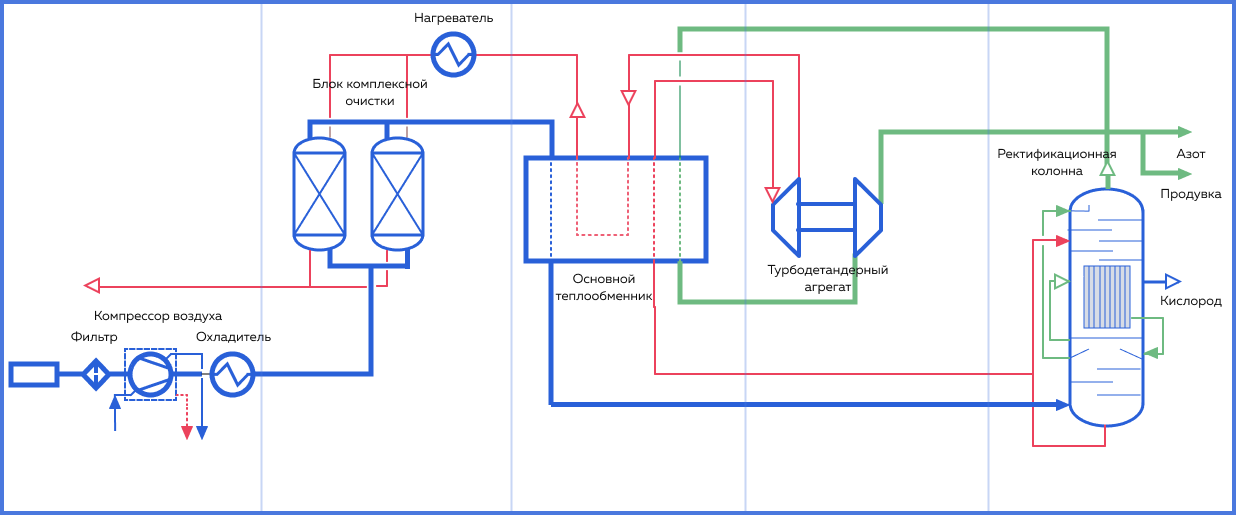
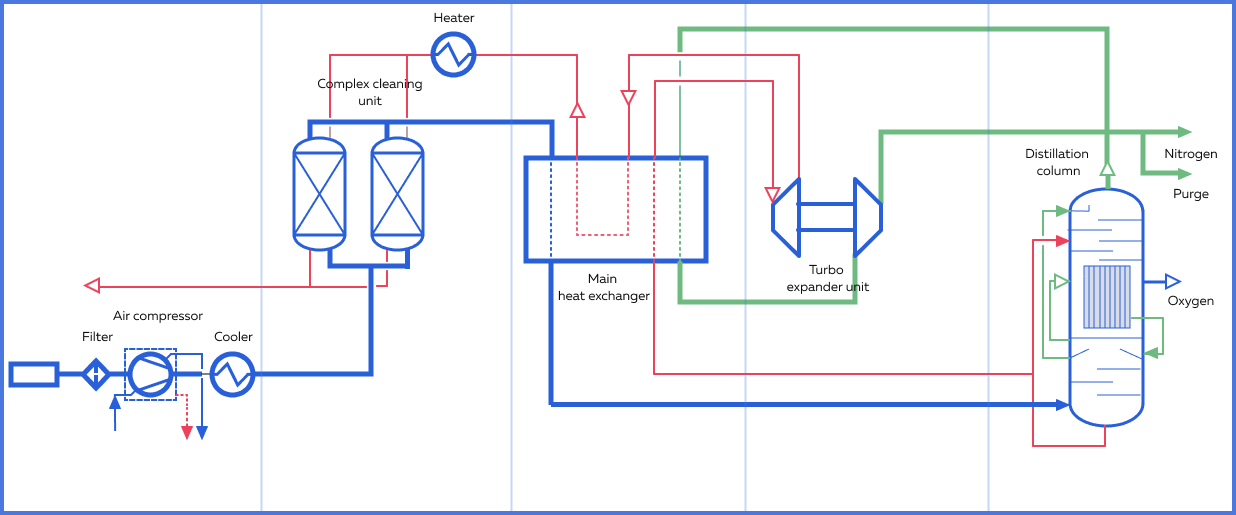
енг

diff --git a/products/azot-membrana/index.php b/products/azot-membrana/index.php
@@ -41,7 +41,7 @@ $APPLICATION->SetTitle("Membrane nitrogen stations");
 		<div class="section-title">
 			<div class="h1">Nitrogen Membrane System</div>
 		</div>
-		<img src="<?=SITE_TEMPLATE_PATH?>/img/lp/membrana/system.png?v=1" alt="" class="membran-system__sheme">
+		<img src="<?=SITE_TEMPLATE_PATH?>/img/lp/membrana/system.png?v=3" alt="" class="membran-system__sheme">
 		<div class="membran-system__descr">
 			<strong>How the membrane nitrogen generator works</strong><br>
 			<p>AGS Engineering produces air separation plants of various configurations based on hollow fiber membrane modules. To separate nitrogen, the purified and dried compressed air is supplied with a membrane gas separation unit. The size of oxygen molecules is smaller than that of nitrogen, as a result of which oxygen passes through the membrane fibers faster than nitrogen molecules. This leads to the enrichment of nitrogen to the required purity inside the hollow fibers, while the air stream enriched with oxygen (permeate) is discharged outside the membrane module. The purity of production nitrogen can be controlled by setting the operating conditions - the purity of nitrogen increases with decreasing nitrogen flow rate and vice versa. Regulation is carried out using the flow / purity control valve installed after the flow meter and nitrogen analyzer at the outlet of the membrane module, which allows final control of both the flow and nitrogen purity. The use of membrane air separation technology is energy efficient in industrial enterprises where there is a need for nitrogen of low concentration of 93% -99%.</p>

diff --git a/products/vodorod/index.php b/products/vodorod/index.php
@@ -92,11 +92,11 @@ $APPLICATION->SetTitle("Hydrogen generators");
 	<div class="container">
 		<div class="row">
 			<div class="grid-6 grid-12_m">
-				<a href="<?=SITE_TEMPLATE_PATH?>/img/lp/vodorod/system.png?v=1" class="fancy">
-					<img src="<?=SITE_TEMPLATE_PATH?>/img/lp/vodorod/system.png?v=1" alt="1" class="img-responsive"></a>
+				<a href="<?=SITE_TEMPLATE_PATH?>/img/lp/vodorod/system.png?v=2" class="fancy">
+					<img src="<?=SITE_TEMPLATE_PATH?>/img/lp/vodorod/system.png?v=2" alt="1" class="img-responsive"></a>
 				<br>
 				<br>
-				<a href="<?=SITE_TEMPLATE_PATH?>/img/lp/vodorod/system.png?v=1" class="fancy action-link">Click to enlarge +</a>
+				<a href="<?=SITE_TEMPLATE_PATH?>/img/lp/vodorod/system.png?v=2" class="fancy action-link">Click to enlarge +</a>
 			</div>
 			<div class="grid-6 grid-12_m">
 				<div class="user-content">

diff --git a/products/azot-station/index.php b/products/azot-station/index.php
@@ -40,7 +40,7 @@ $APPLICATION->SetTitle("Nitrogen stations");
 	<div class="container">
 		<div class="row">
 			<div class="grid-6 grid-12_m">
-				<img src="<?=SITE_TEMPLATE_PATH?>/img/lp/azot-station/princip.png" alt="1" class="img-responsive">
+				<img src="<?=SITE_TEMPLATE_PATH?>/img/lp/azot-station/princip.png?v=1" alt="1" class="img-responsive">
 			</div>
 			<div class="grid-6 grid-12_m">
 				<div class="user-content">

diff --git a/products/kislorod-station/index.php b/products/kislorod-station/index.php
@@ -40,7 +40,7 @@ $APPLICATION->SetTitle("Oxygen stations");
 	<div class="container">
 		<div class="row">
 			<div class="grid-6 grid-12_m">
-				<img src="<?=SITE_TEMPLATE_PATH?>/img/lp/azot-station/princip.png" alt="1" class="img-responsive">
+				<img src="<?=SITE_TEMPLATE_PATH?>/img/lp/azot-station/princip.png?v=1" alt="1" class="img-responsive">
 			</div>
 			<div class="grid-6 grid-12_m">
 				<div class="user-content">

diff --git a/products/cryogen/index.php b/products/cryogen/index.php
@@ -176,7 +176,7 @@ $APPLICATION->SetTitle("Cryogen Air Separation Units");
 			<div class="h1">The principle of operation of cryogenic ASU</div>
 		</div>
 
-		<img data-lazy="<?=SITE_TEMPLATE_PATH?>/img/lp/cryogen/princip.png" alt="1" class="img-responsive">
+		<img data-lazy="<?=SITE_TEMPLATE_PATH?>/img/lp/cryogen/princip.png?v=1" alt="1" class="img-responsive">
 
 		<div class="crio-princips">
 			<div class="crio-princip">

diff --git a/products/osushiteli/index.php b/products/osushiteli/index.php
@@ -50,7 +50,7 @@ $APPLICATION->SetTitle("Adsorption compressed air desiccants");
 				</div>
 			</div>
 			<div class="grid-6 grid-12_m">
-				<img src="<?=SITE_TEMPLATE_PATH?>/img/lp/azot-station/princip.png" alt="1" class="img-responsive">
+				<img src="<?=SITE_TEMPLATE_PATH?>/img/lp/azot-station/princip.png?v=1" alt="1" class="img-responsive">
 			</div>
 		</div>
 	</div>
